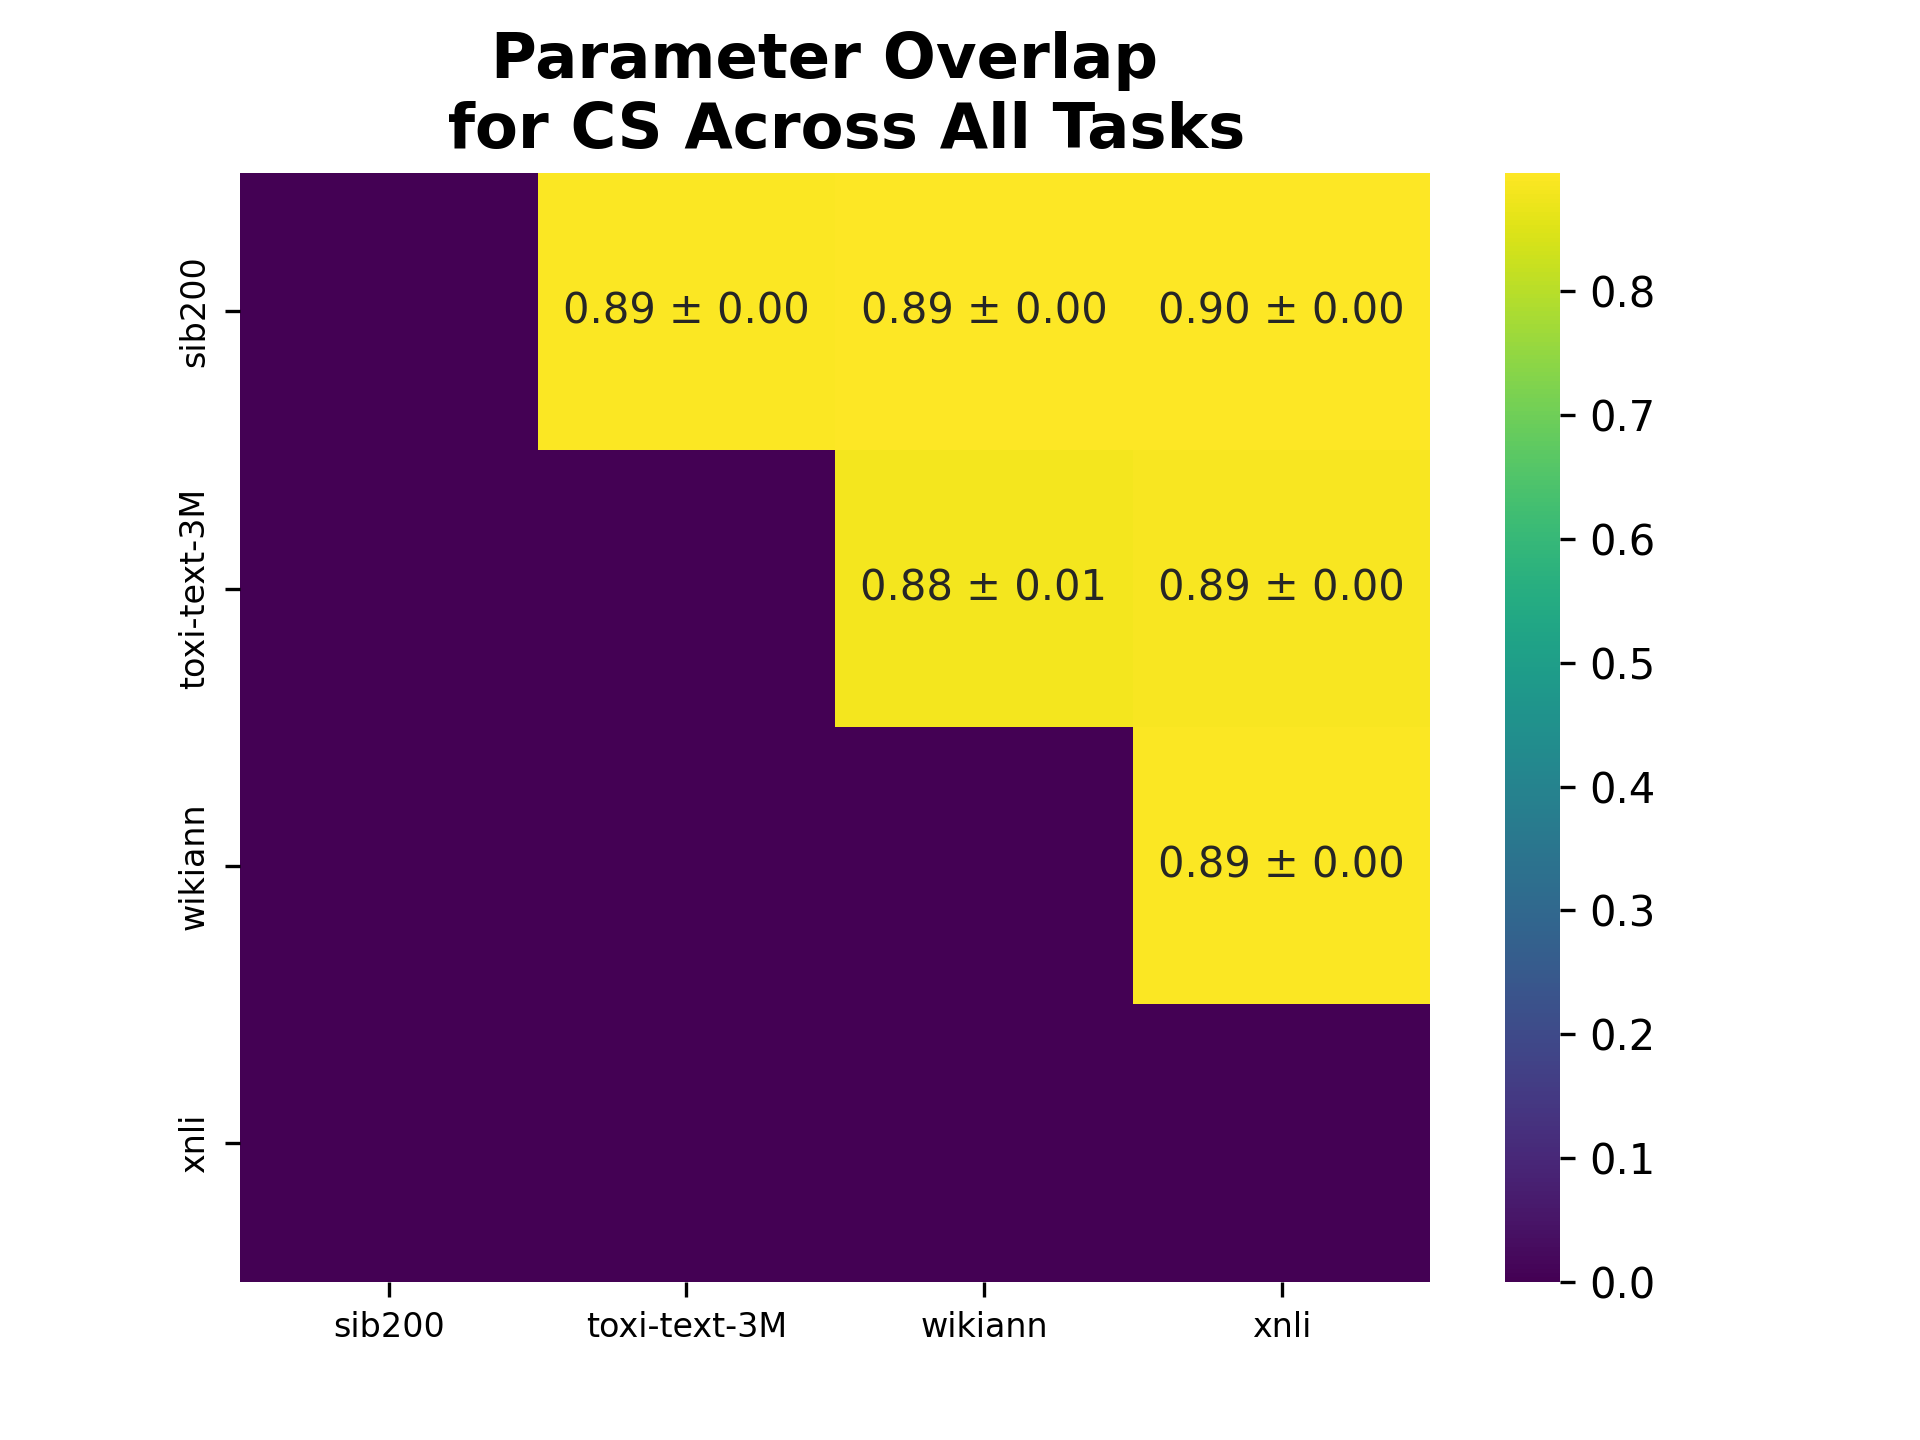
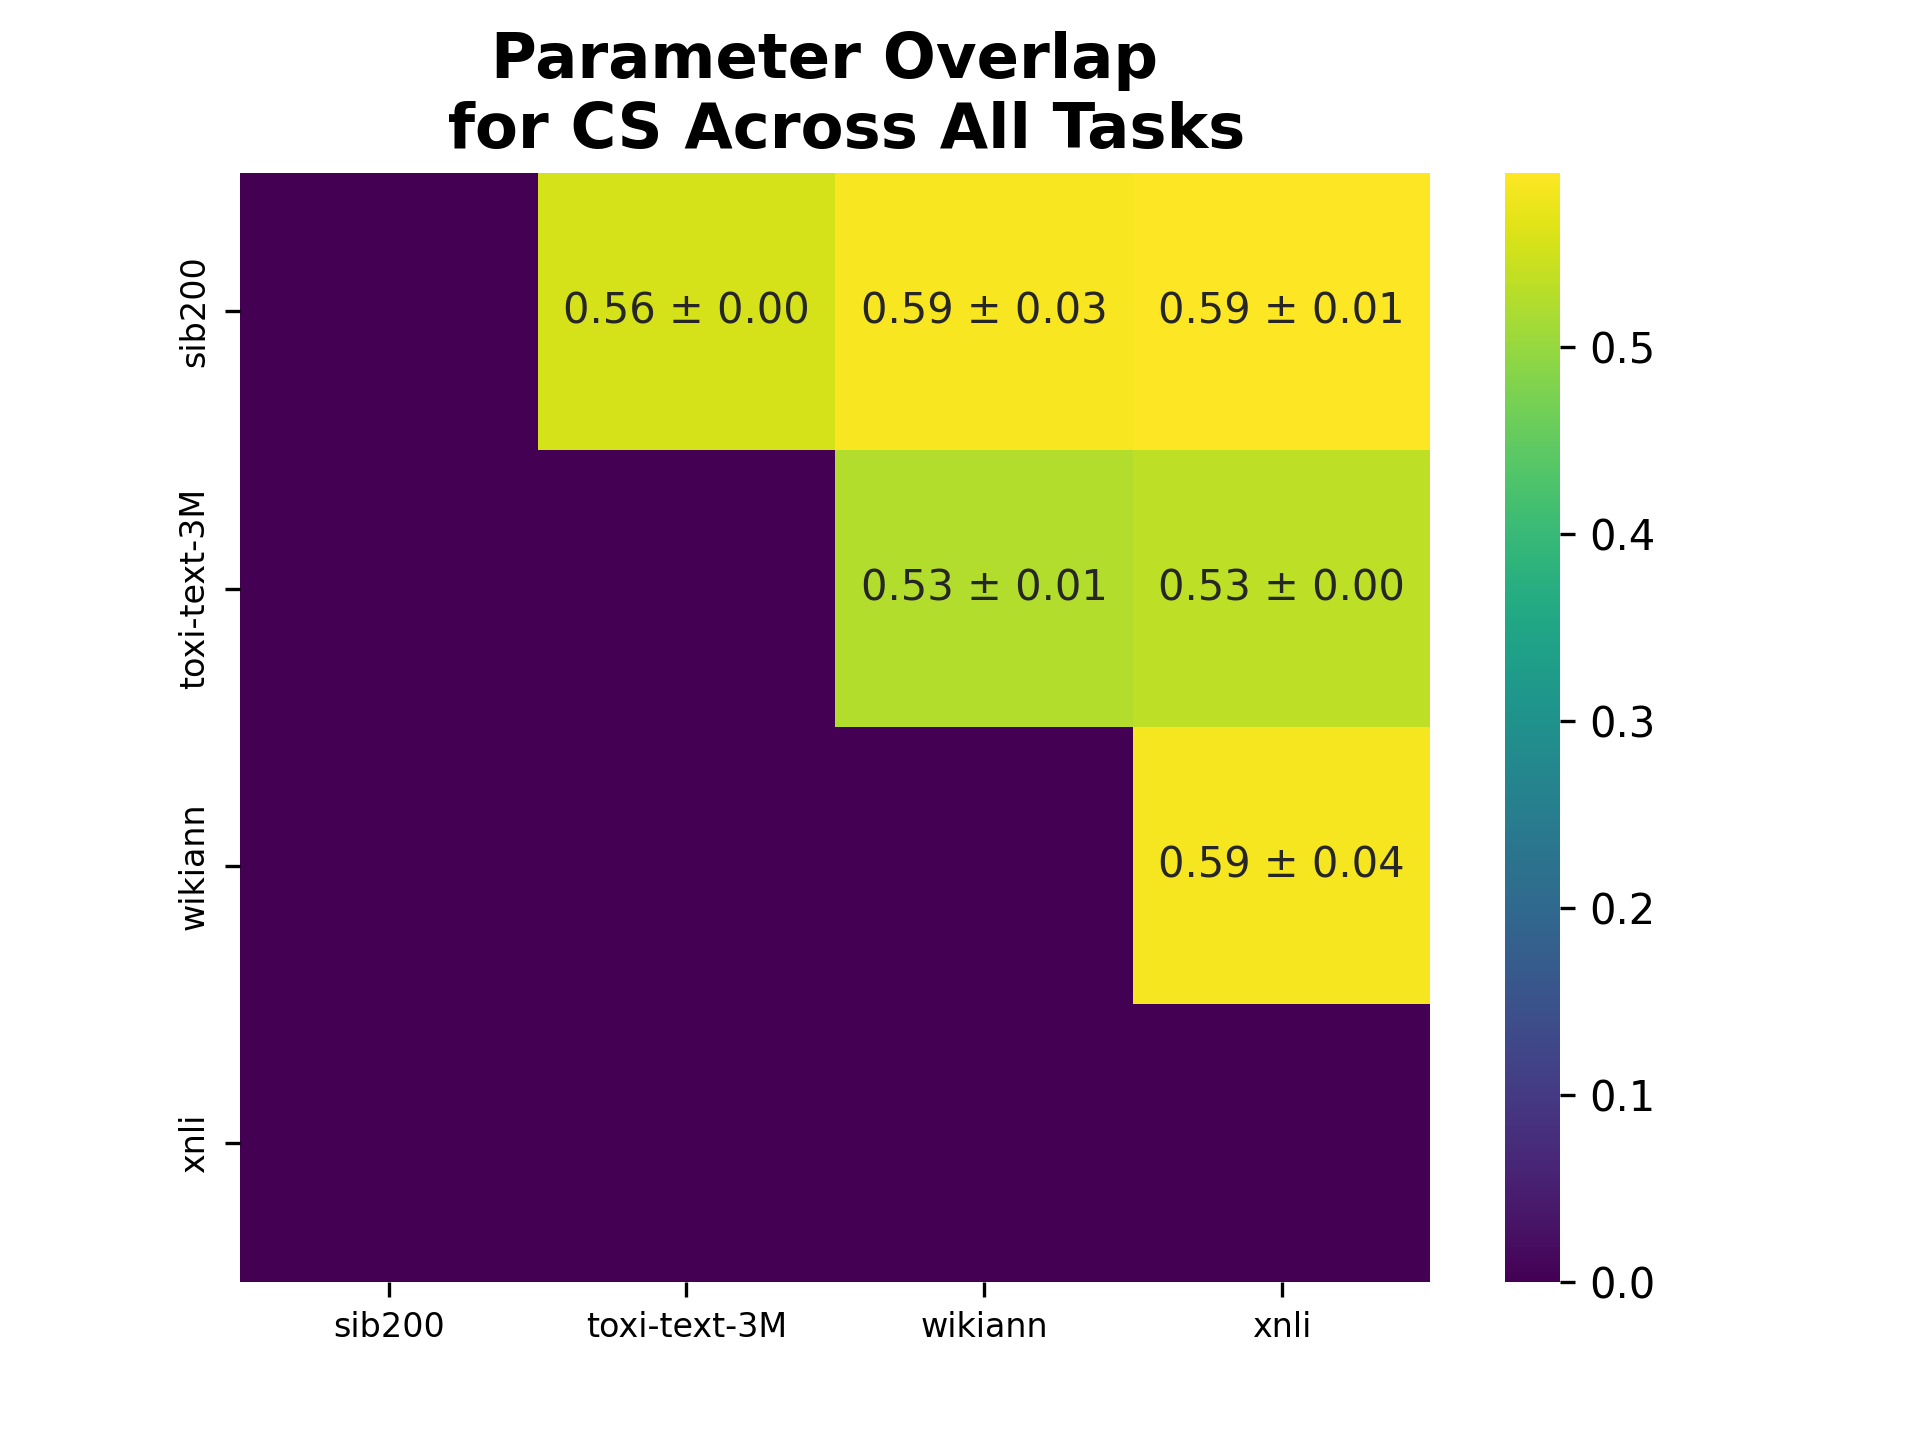
fix layerwise overlap

diff --git a/eval.py b/eval.py
@@ -9,22 +9,18 @@ import matplotlib as mpl
 
 mpl.rcParams["figure.dpi"] = 300
 
-_EXCLUDED_LAYERS = [
-    "roberta.pooler.dense.weight",
-    "roberta.pooler.dense.bias",
-    "classifier.weight",
-    "classifier.bias",
-    "classifier.dense.weight",
-    "classifier.dense.bias",
-    "classifier.out_proj.weight",
-    "classifier.out_proj.bias",
+_PARAM_KEYWORDS_TO_KEEP = [
+    "encoder",
 ]
 
 
-def extract_mask(model, filters):
+def _contains_any(string, substrings):
+    return any(substring in string for substring in substrings)
+
+def extract_mask(model, params_names_to_keep):
     named_mask = {}
     for name, param in model.named_parameters():
-        if name in filters:
+        if not _contains_any(name, params_names_to_keep):
             continue
         mask = param > 0
         named_mask[name] = mask
@@ -51,27 +47,23 @@ def extract_num(sample_string):
     return numbers[0]
 
 
-def has_numbers(inputString):
-    return any(char.isdigit() for char in inputString)
-
-
 def jaccard_layer_from(masks_a, masks_b):
     # assume masks_a and masks_b contains the same keys and corresponding
     # tensor dimenstion
     layer_overlap = {}
     for name_param, mask_a in masks_a.items():
-        if not has_numbers(name_param):
-            continue
         l_n = extract_num(name_param)
         mask_b = masks_b[name_param]
         union = mask_a | mask_b
         union_count = union.sum().item()
         overlap = mask_a & mask_b
         overlap_count = overlap.sum().item()
-        if l_n in layer_overlap:
-            layer_overlap[l_n][0] += overlap_count
-            layer_overlap[l_n][1] += union_count
-        layer_overlap[l_n] = [overlap_count, union_count]
+        if l_n not in layer_overlap:
+            layer_overlap[l_n] = [overlap_count, union_count]
+            continue
+        layer_overlap[l_n][0] = layer_overlap[l_n][0] + overlap_count
+        layer_overlap[l_n][1] = layer_overlap[l_n][1] + union_count
+        
     return layer_overlap
 
 
@@ -127,9 +119,11 @@ def jaccard_all(masks_list):
 
 def plot_jaccard_layers(layer_overlap_map, lang, save_path):
     for label, v in layer_overlap_map.items():
+        x = v[0]
+        y = np.mean(np.array(v[1]), axis=0)
         plt.plot(
-            v[0],
-            np.mean(np.array(v[1]), axis=0),
+            x,
+            y,
             marker="o",
             label=label,
         )
@@ -160,7 +154,10 @@ def jaccard_layers(masks_list, datasets):
     for masks in masks_list:
         for i in range(num_models):
             for j in range(i + 1, num_models):
-                layers = jaccard_layer_from(masks[i](), masks[j]())
+                a = masks[i]()
+                b = masks[j]()
+                p = jaccard_all_params_from(a, b)
+                layers = jaccard_layer_from(a, b)
                 x = []
                 y = []
                 for l in layers.keys():
@@ -178,7 +175,7 @@ def jaccard_layers(masks_list, datasets):
 
 def _mask(model_path, dataset):
     model, _, _ = build_model_tokenizer_metric(model_path, "", dataset)
-    mask = extract_mask(model, _EXCLUDED_LAYERS)
+    mask = extract_mask(model, _PARAM_KEYWORDS_TO_KEEP)
     return mask
 
 
@@ -186,7 +183,6 @@ def _process_inputs(models):
     seeds_to_models = {}
     for model_path, dataset, seed in models:
         p = (model_path, dataset)
-        print(p)
         if seed not in seeds_to_models:
             seeds_to_models[seed] = [p]
             continue
@@ -202,7 +198,6 @@ def _process_inputs(models):
 
 
 def _dataset(model_dataset_list):
-    print(model_dataset_list)
     return [dataset for _, dataset in model_dataset_list]
 
 
